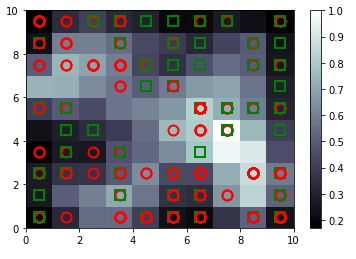
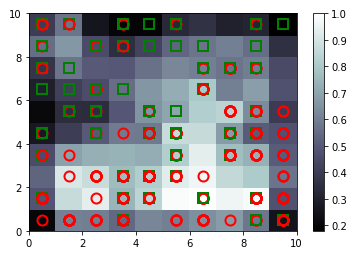
h

diff --git a/_posts/Neural Networks/2019-01-20-SOM.md b/_posts/Neural Networks/2019-01-20-SOM.md
@@ -10,7 +10,7 @@ header:
       url: "https://github.com/najeesmith"
 ---
 # Introduction
-Thought these were coolio
+My first unsupervised model.
 # Code
 
 ```python
@@ -20,7 +20,7 @@ ms = MiniSom(x = 10, y = 10, input_len = 15, sigma = 1, learning_rate = .5)
 ms.random_weights_init(X)
 ms.train_random(data = X, num_iteration = 150)
 ```
-**REPLACE WITH IMAGE OF MAP YOU TURD**
+<img src="{{site.baseurl}}/images\Neural Networks\SOM\Map.PNG">
 
 ```python
 from pylab import bone,pcolor,colorbar, plot, show
@@ -59,10 +59,10 @@ direct.
 
 ```python
 customers = data.iloc[:, 1:].values
-potential_fraud = np.zeros(len(data))
-for i in range(len(data)):
+potential_fraud = np.zeros(len(data)) #Creates an array of zeros that will
+for i in range(len(data)): #Change from a 0 to a 1 if they are a potential fraud
     if data.iloc[i,0] in frauds:
-        potential_fraud[i] = 1
+        potential_fraud[i] = 1 #This creates the dependent variable to train the ANN
 
 # Importing the Keras libraries and packages
 from keras.models import Sequential
@@ -88,3 +88,7 @@ y_pred = classifier.predict(customers)
 y_pred = np.concatenate((data.iloc[:, 0:1].values, y_pred), axis = 1) #Brings array of prediction values and customer IDs
 y_pred = y_pred[y_pred[:, 1].argsort()] #Ascending list of fraud probabilities
 ```
+
+<img src="{{site.baseurl}}/images\Neural Networks\SOM\results.PNG">
+
+The customers were listed from an ascending order of possible fraudulence. Towards the end the highest probability reached only 18%, which tells me the winning nodes I chose were either not the best, or the other customers were some of the most honest people on the planet. 
